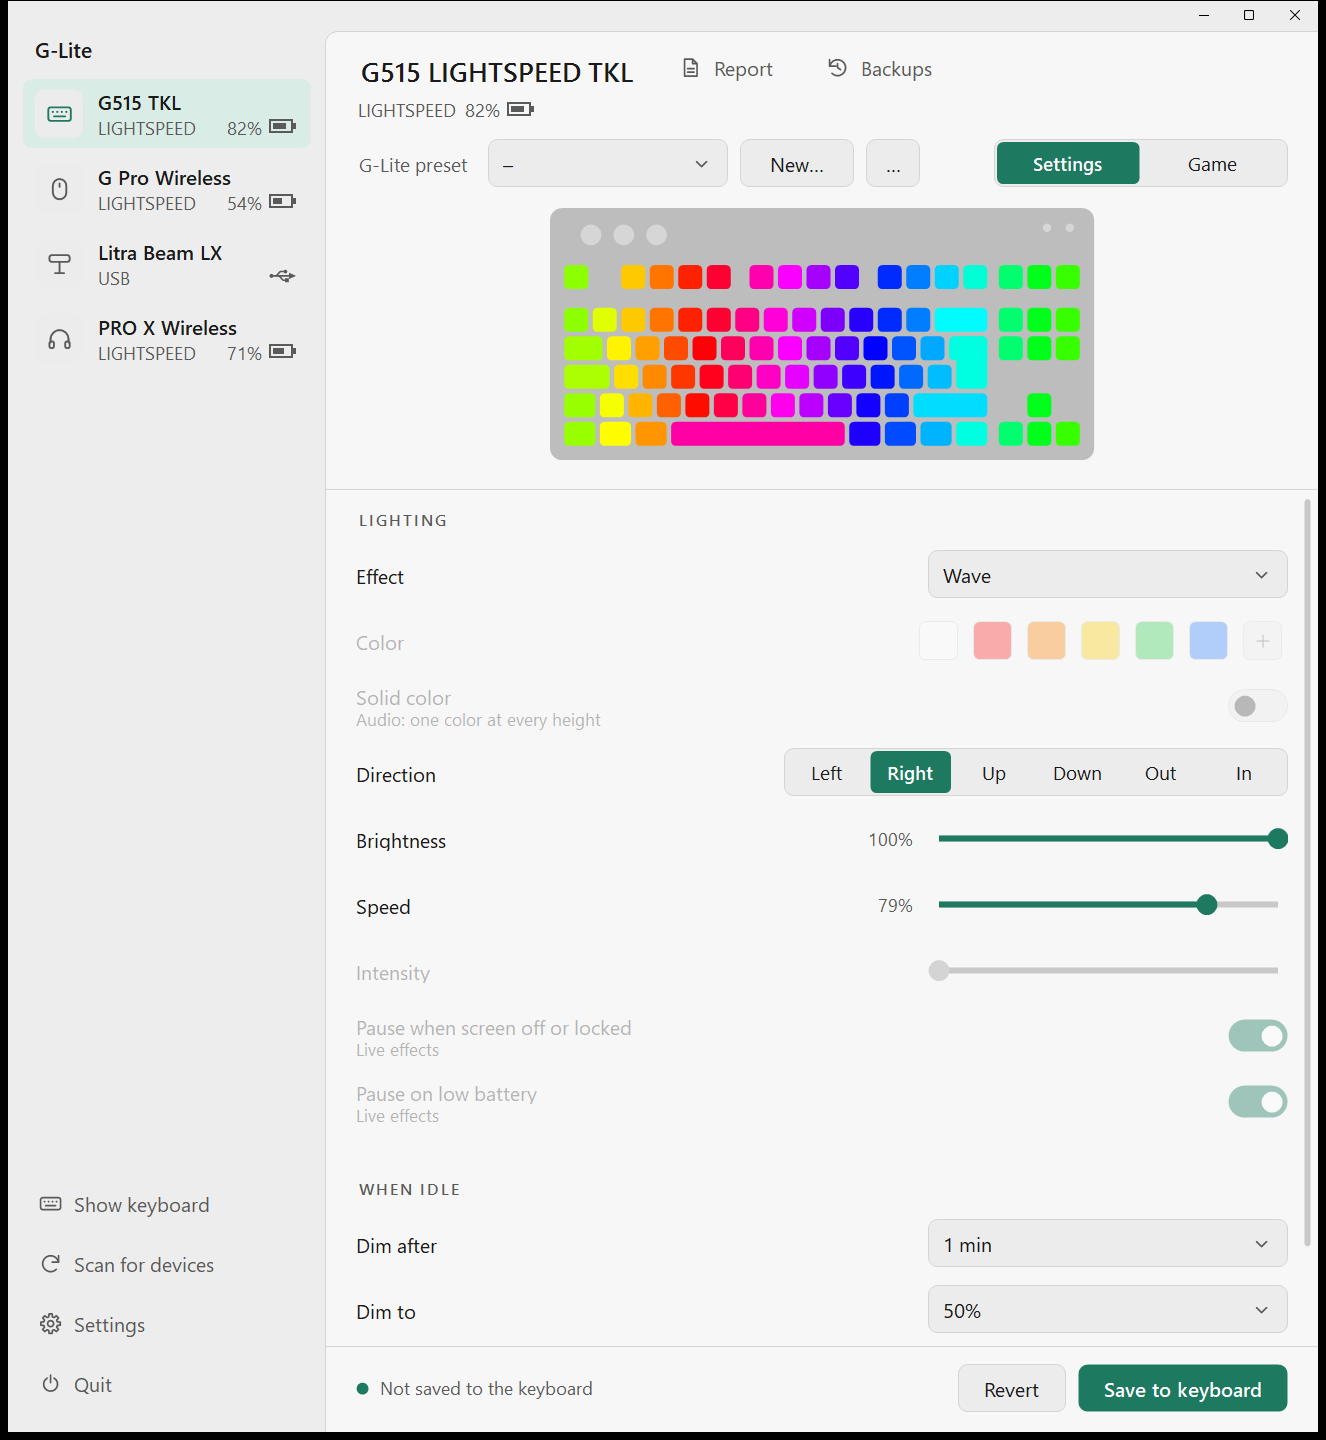
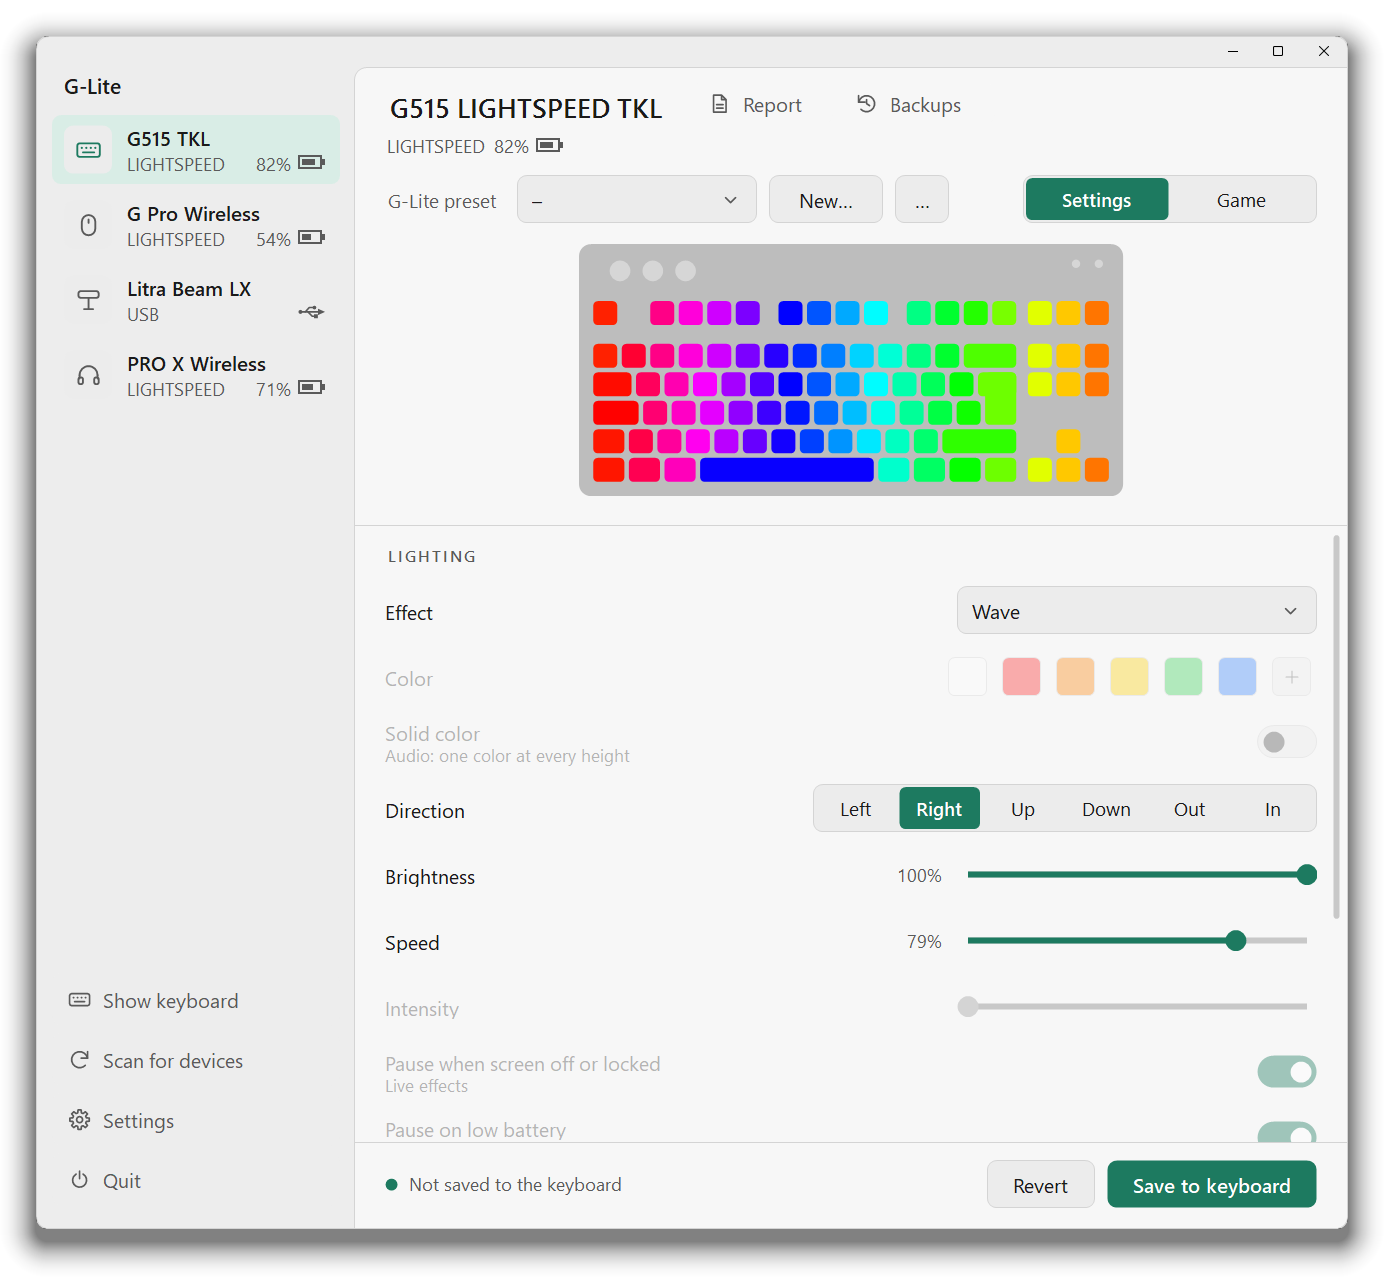
Screenshots again: cropped to the window as Windows shows it, with rounded corners, a 1 px border and a soft shadow on a transparent background (the capture had kept the invisible resize borders, black, and square corners); lower, nearly square windows (the mouse screen had an empty gap); Every key,

diff --git a/site/index.html b/site/index.html
@@ -205,7 +205,7 @@ footer p { max-width: 460px; }
       </div>
       <a class="button" href="https://github.com/csmarvz/g-lite">View on GitHub</a>
     </div>
-    <img class="shot" src="img/keyboard.png" width="1326" height="1440" fetchpriority="high" alt="G-Lite showing a G515 LIGHTSPEED TKL with the Wave effect on its live key picture, and the other devices in the sidebar">
+    <img class="shot" src="img/keyboard.png" width="1384" height="1277" fetchpriority="high" alt="G-Lite showing a G515 LIGHTSPEED TKL with the Wave effect on its live key picture, and the other devices in the sidebar">
 
     <div class="facts">
       <div class="fact"><b>Lightweight</b><span>Low RAM and low CPU</span></div>
@@ -263,7 +263,7 @@ footer p { max-width: 460px; }
             <li>Separate effects for the keys and the light bar</li>
           </ul>
         </div>
-        <img class="shot" src="img/keyboard.png" width="1326" height="1440" loading="lazy" alt="The G515 TKL screen with its effects, colours and idle settings">
+        <img class="shot" src="img/keyboard-live.png" width="1384" height="1277" loading="lazy" alt="The G515 TKL screen with the Aurora live effect on its key picture, its speed, intensity and pause settings">
       </div>
 
       <div class="split flip">
@@ -276,7 +276,7 @@ footer p { max-width: 460px; }
             <li>Button bindings, invert scrolling</li>
           </ul>
         </div>
-        <img class="shot" src="img/mouse.png" width="1326" height="1440" loading="lazy" alt="The G Pro Wireless screen with its DPI stages, report rate and lighting">
+        <img class="shot" src="img/mouse.png" width="1384" height="1277" loading="lazy" alt="The G Pro Wireless screen with its DPI stages, report rate and lighting">
       </div>
 
       <div class="split">
@@ -288,7 +288,7 @@ footer p { max-width: 460px; }
             <li>MX mice and keyboards: pointer speed, SmartShift, backlight and its effects, F1–F12, Easy-Switch</li>
           </ul>
         </div>
-        <img class="shot" src="img/light.png" width="1326" height="1440" loading="lazy" alt="The Litra Beam LX screen with its front light and back light zones">
+        <img class="shot" src="img/light.png" width="1384" height="1277" loading="lazy" alt="The Litra Beam LX screen with its front light and back light zones">
       </div>
 
       <div class="split flip">
@@ -301,7 +301,7 @@ footer p { max-width: 460px; }
             <li>Light or dark, and your accent colour</li>
           </ul>
         </div>
-        <img class="shot" src="img/settings.png" width="1326" height="1440" loading="lazy" alt="G-Lite's Settings: theme, accent colour, updates, startup, and G HUB, Logitech Gaming Software, the LampArray service and Dynamic Lighting with Stop buttons">
+        <img class="shot" src="img/settings.png" width="1384" height="1277" loading="lazy" alt="G-Lite's Settings: theme, accent colour, updates, startup, and G HUB, Logitech Gaming Software, the LampArray service and Dynamic Lighting with Stop buttons">
       </div>
     </div>
   </section>
